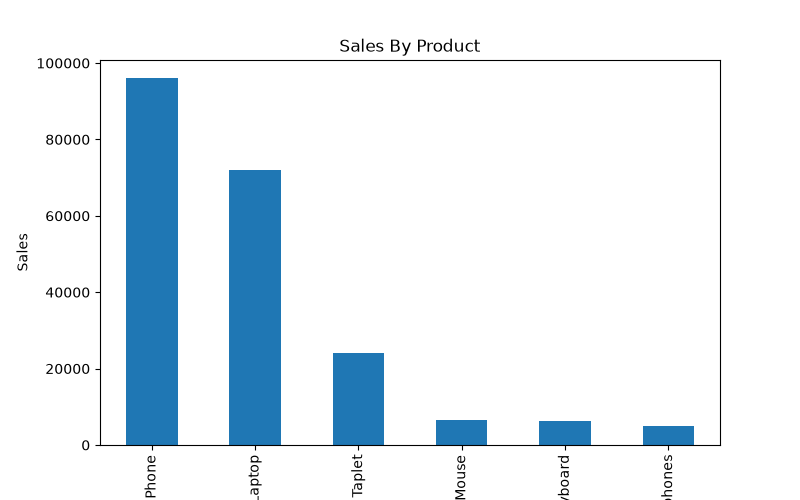
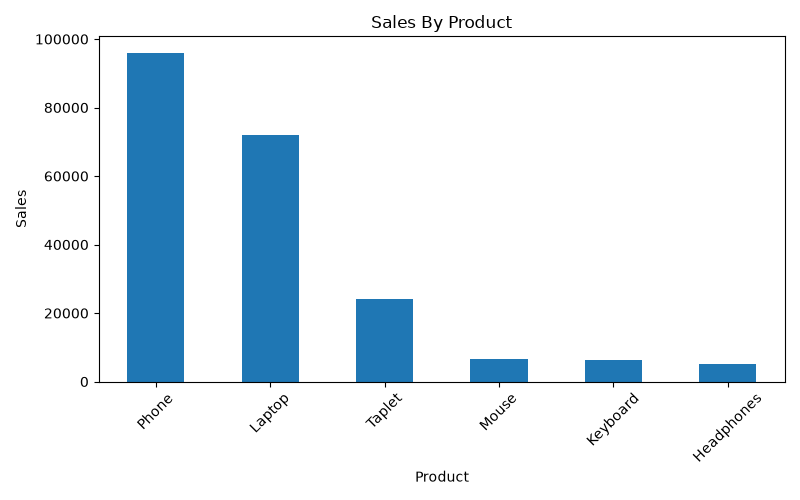
Improve chart readability

diff --git a/analysis.py b/analysis.py
@@ -54,16 +54,22 @@ plt.title("Sales By Product")
 plt.xlabel("Product")
 plt.ylabel("Sales")
 
+plt.xticks(rotation=45)
+plt.tight_layout()
+
 plt.savefig("product_sales.png")
 plt.show()
 
-plt.figure(figsize=(8, 5))
+plt.figure(figsize=(12, 8))
 
 city_sales.sort_values(ascending=False).plot(kind="bar")
 
 plt.title("Sales By City")
 plt.xlabel("City")
 plt.ylabel("Sales")
+
+plt.xticks(rotation=45)
+plt.tight_layout()
 
 plt.savefig("city_sales.png")
 plt.show()